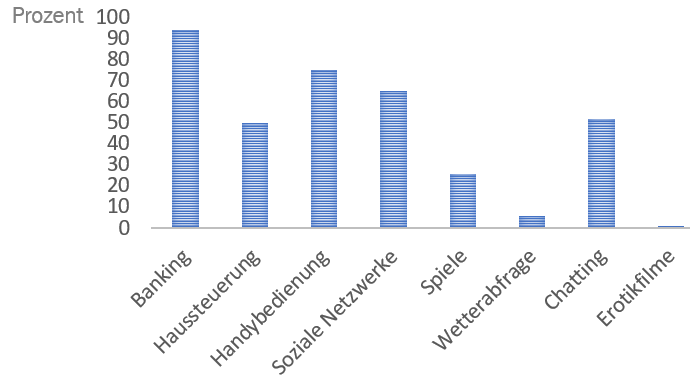
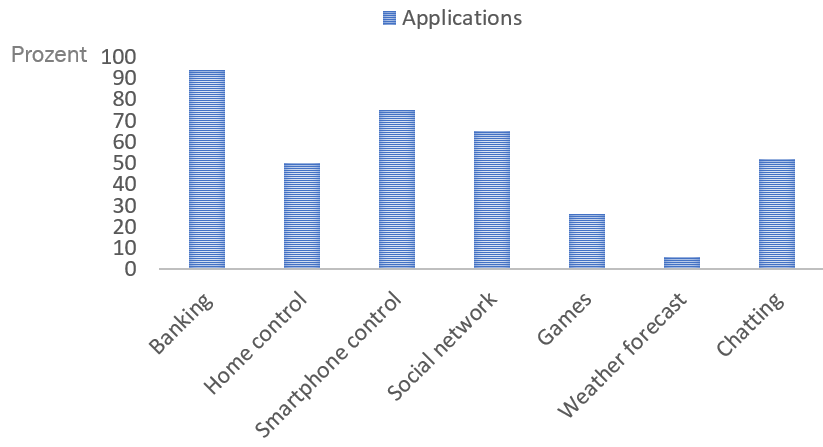
Add english picuters to articel and check references

diff --git a/Paper - Englisch/Section/Motivation.tex b/Paper - Englisch/Section/Motivation.tex
@@ -31,7 +31,7 @@ A direct comparison of the survey with the study from the USA is shown in Figure
 	\centering
 	\includegraphics[width=0.9\linewidth]{Picture/umfrage_haeufigkeit}
 	\caption[Frequency of use of voice assistants]{Frequency of use of voice assistants}
-	\label{fig:umfrage_haeufigkeit}
+	\label{fig: survey_base}
 \end{figure} 
 
 As can be seen in Figure \ref{fig:umfrage_datenschutz}, 90\% of the participants do not know what's happening to their data. The willingness to pay is visualized by age group in Figure \ref{fig:umfrage_geld_gruppen}. One in four would pay for better data security and 56\% of the participants are unsure whether they would spend money on it. The age rating after willingness to pay is lowest for the group under 18 years of age. The intersection of participants who ticked \glqq Yes\grqq{} or \glqq Maybe\grqq{} increases with age.
@@ -65,7 +65,7 @@ As shown in Figure \ref{survey_application}, the privacy of banking, home automa
 	\centering
 	\includegraphics[width=0.9\linewidth]{Picture/umfrage_anwendung}
 	\caption[Data protection relevant applications]{Data protection relevant applications}
-	\label{fig:umfrage_anwendung}
+	\label{survey_application}
 \end{figure}
 
 From the surveys, the following conclusions can be drawn:
